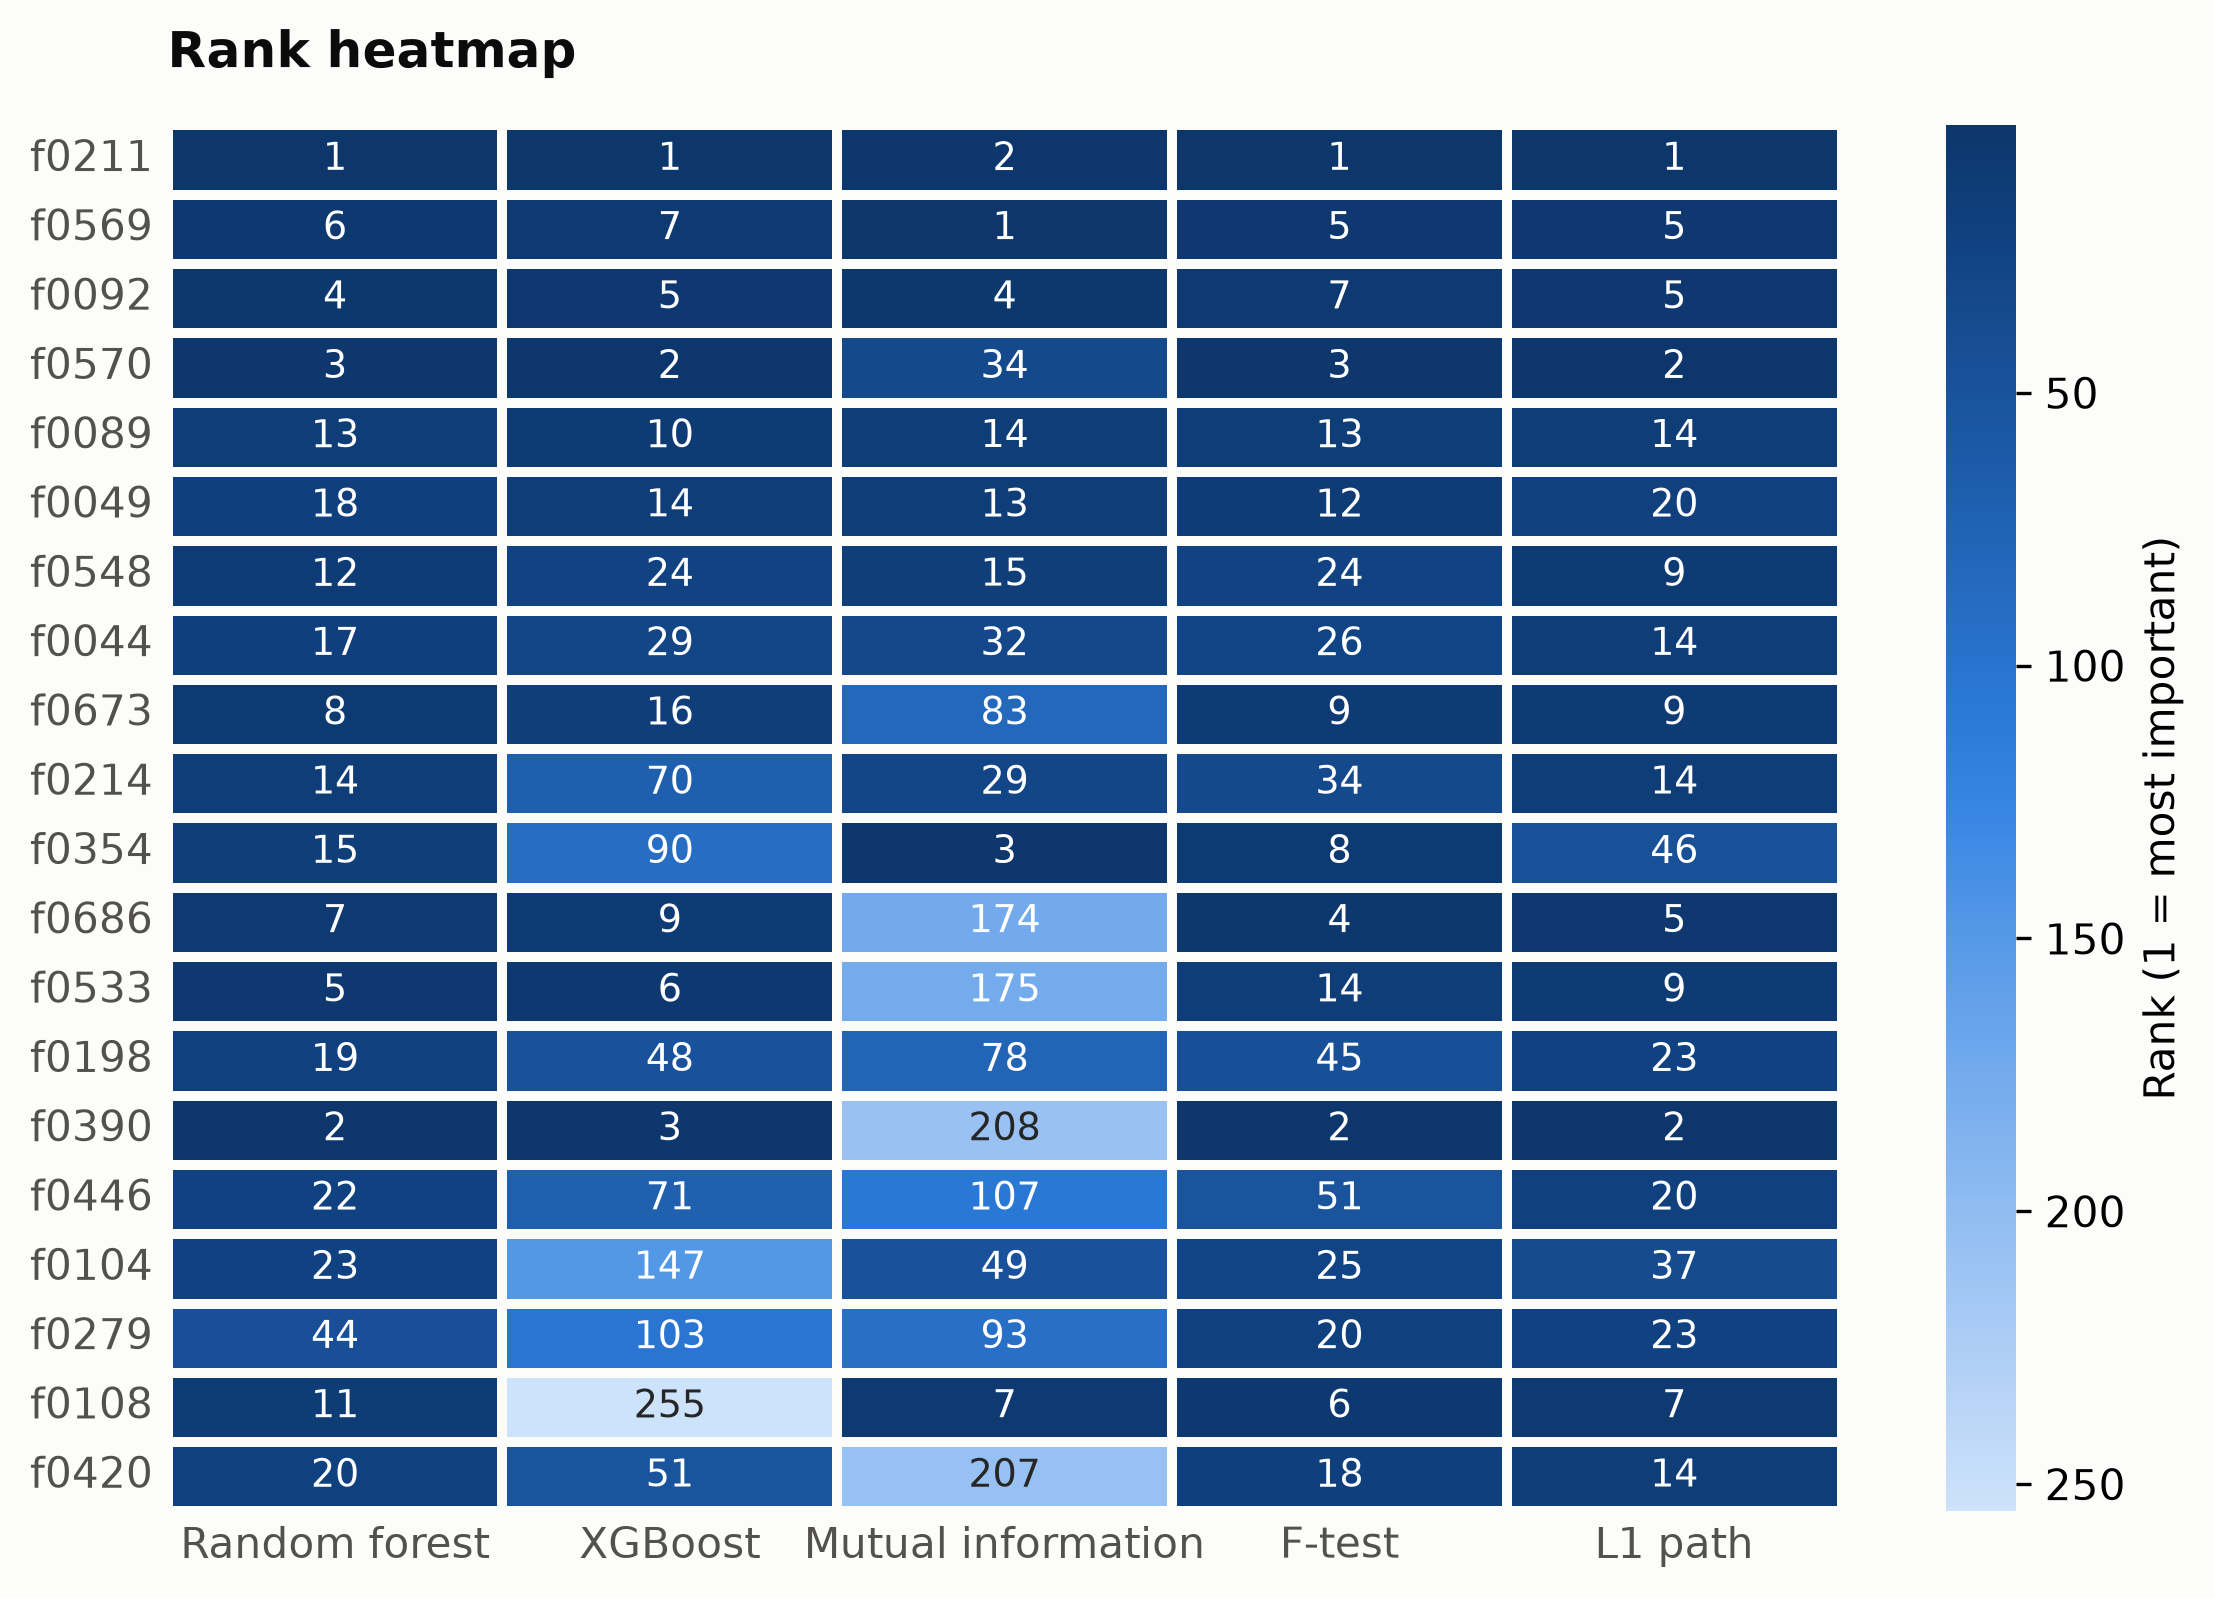
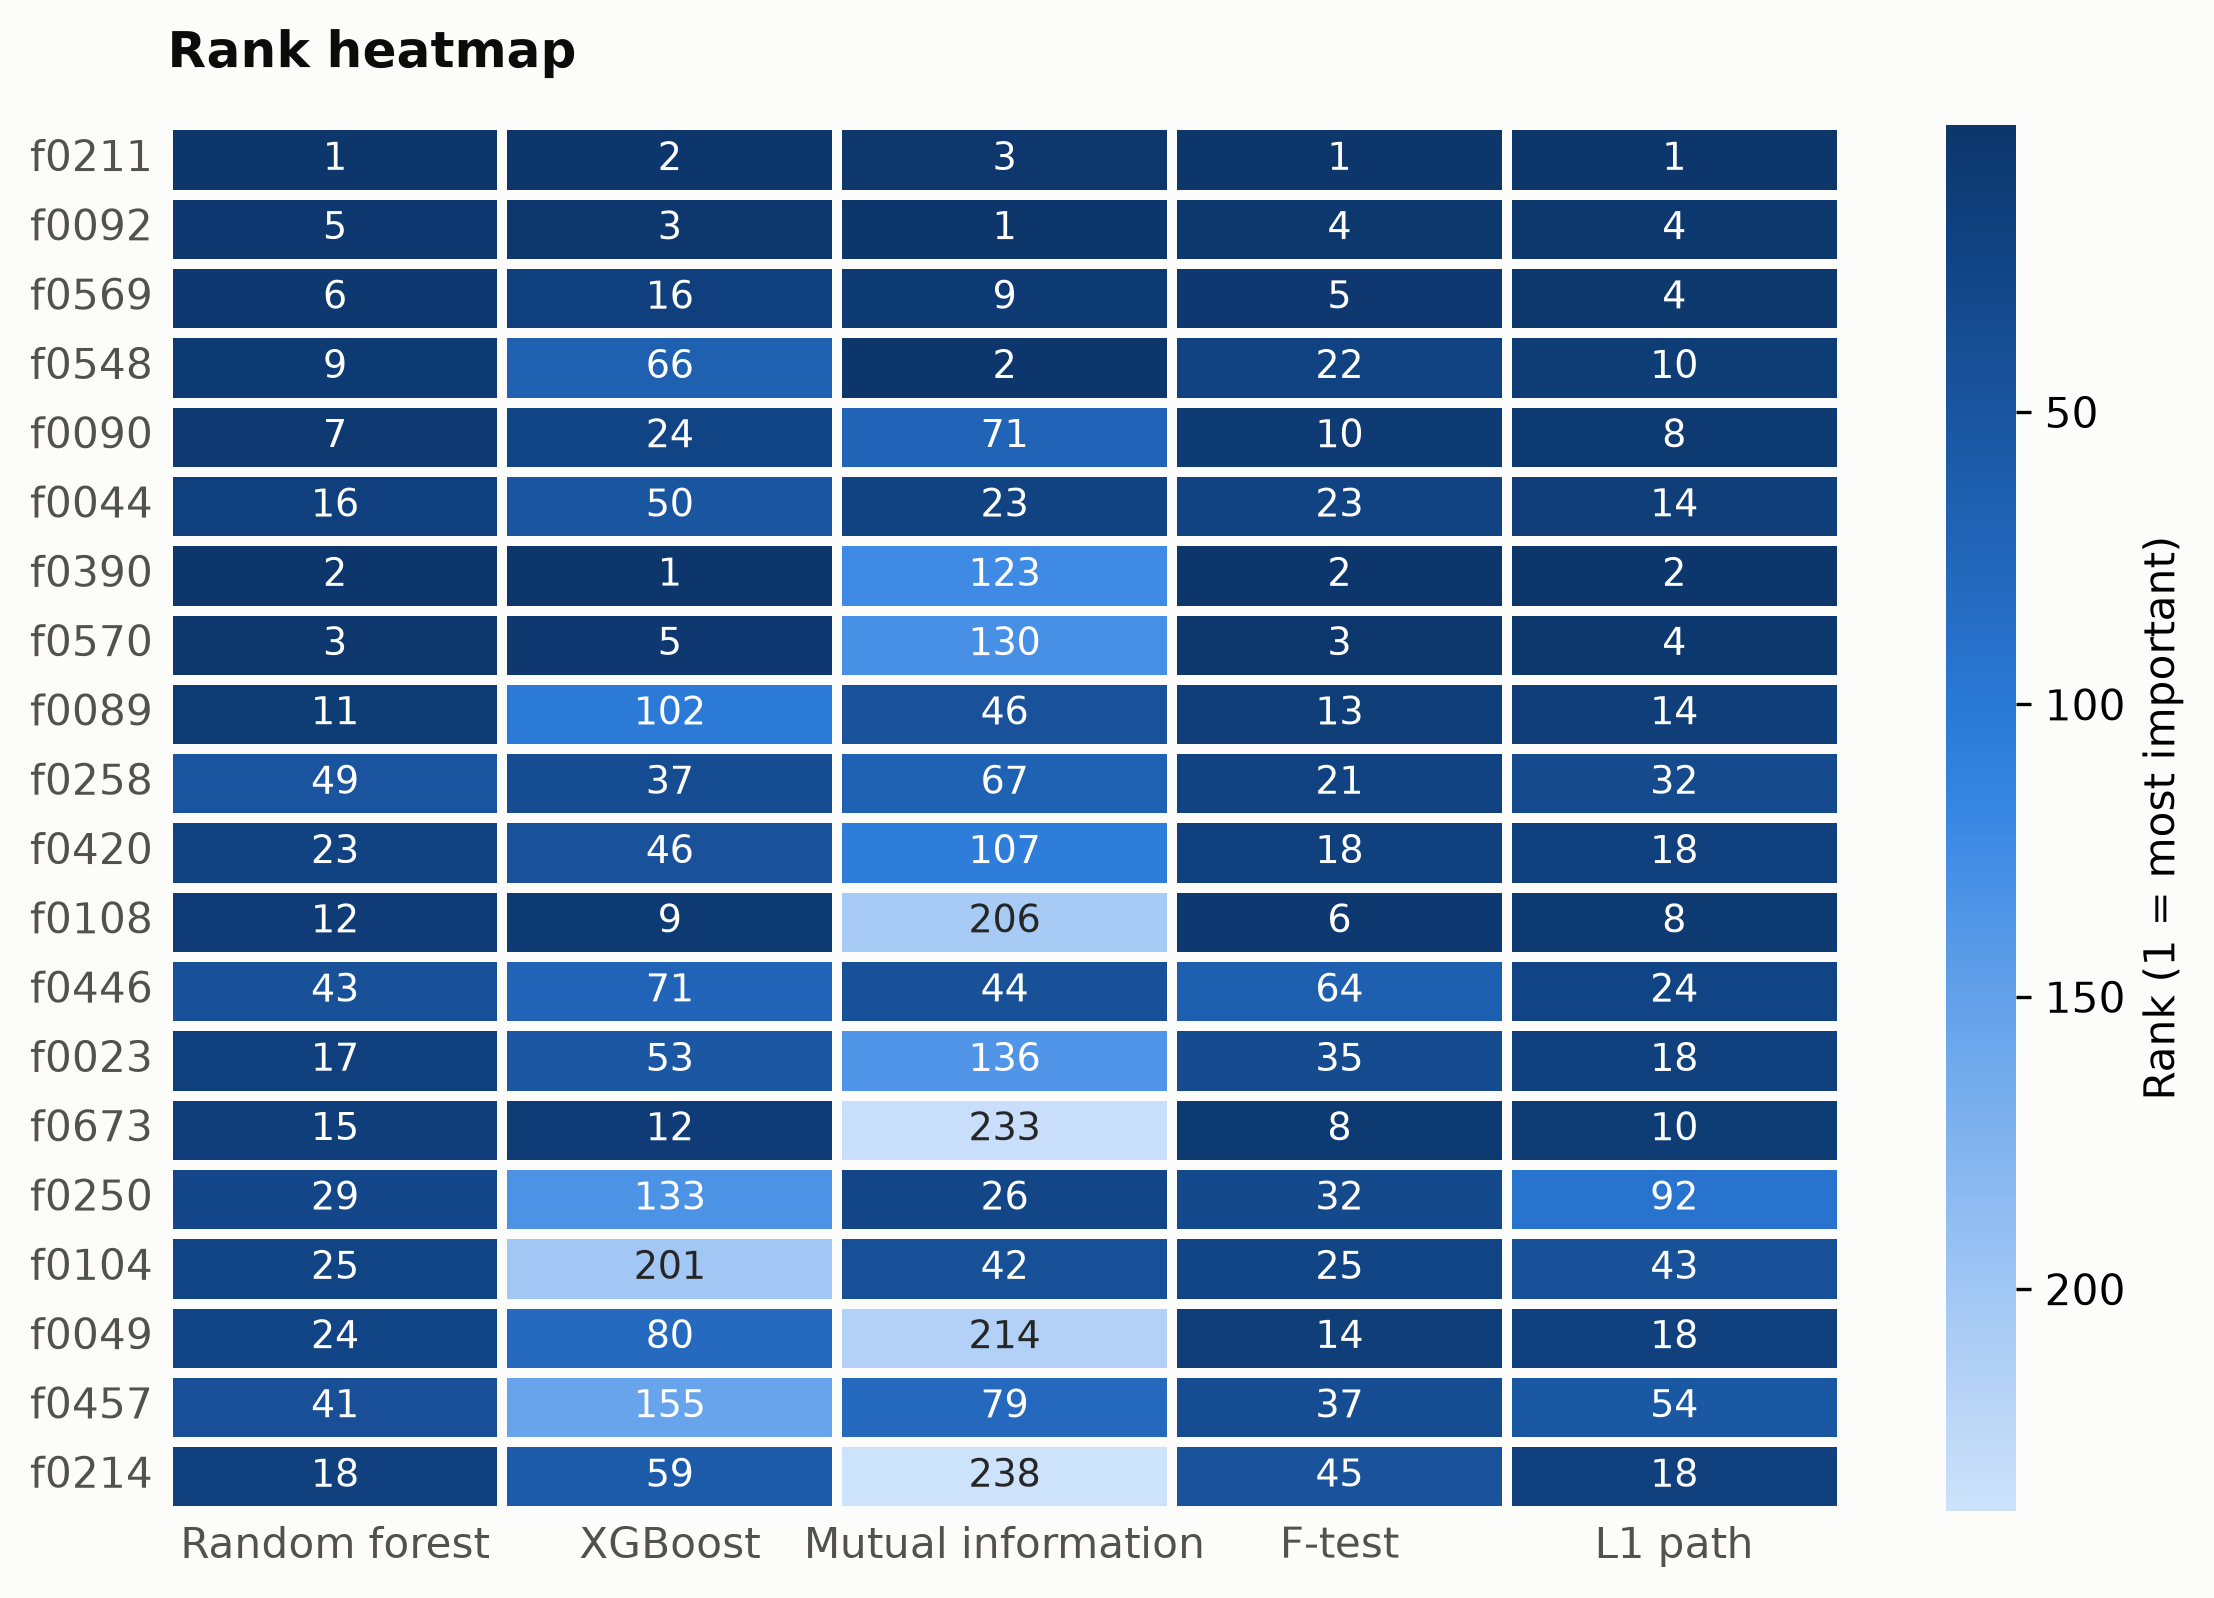
docs: ModernBERT sentiment example artifacts from the GH200 run
Train-split ranking over 3,200 sentences; held-out probe results: top 20
of 1,536 dimensions keep 69.3% accuracy vs 71.6% with all dimensions, and
beat PCA (67.0%), UMAP (57.9%), and t-SNE (55.8%) at the same budget; the
single top dimension beats every 1-dim reduction.

diff --git a/docs/examples/modernbert_sentiment.md b/docs/examples/modernbert_sentiment.md
@@ -7,7 +7,9 @@ features are the 1,536 pooled hidden-state dimensions of
 with mask-aware variance pooling, 768 dimensions each), and the target is
 the sentiment label. Passing the bare numpy matrix assigns each dimension a
 stable ID: f0000-f0767 are mean-pooled, f0768-f1535
-are variance-pooled.
+are variance-pooled. Everything below ranks on a stratified
+3,200-sentence training split; the remaining 800
+sentences stay held out for the accuracy experiment.
 
 ```python
 import numpy as np
@@ -15,36 +17,61 @@ from featureranker import feature_ranking, voting
 
 E = np.load("embeddings.npy")   # (4000, 1536) pooled ModernBERT features
 y = np.load("labels.npy")       # (4000,) sentiment labels
-result = feature_ranking(E, y, task="classification")
+result = feature_ranking(E[train_idx], y[train_idx], task="classification")
 vote_table = voting(result)
 ```
 
 ## A few dimensions carry the signal
 
 The top 20 of 1,536 dimensions hold
-41% of the total vote score, and the L1 path never activated
-52 dimensions at all (92 parallel
+40% of the total vote score, and the L1 path never activated
+160 dimensions at all (93 parallel
 liblinear fits located every entry point). Of the top 20,
 19 are mean-pooled and 1 are variance-pooled dimensions.
 
 | feature | score |
 |---|---|
-| f0211 | 4.5 |
-| f0390 | 1.738 |
-| f0569 | 1.71 |
-| f0570 | 1.596 |
-| f0092 | 1.043 |
-| f0686 | 0.7097 |
-| f0354 | 0.5579 |
-| f0533 | 0.5549 |
-| f0108 | 0.5472 |
-| f0673 | 0.4218 |
+| f0211 | 3.833 |
+| f0390 | 2.508 |
+| f0092 | 2.006 |
+| f0570 | 1.097 |
+| f0548 | 0.767 |
+| f0569 | 0.7625 |
+| f0533 | 0.7172 |
+| f0686 | 0.5139 |
+| f0108 | 0.491 |
+| f0090 | 0.4236 |
 
 ![Aggregated dimension importance](../images/modernbert_sentiment_vote.png)
 
 ![Dimension ranks by method](../images/modernbert_sentiment_rankings.png)
 
 ![Rank heatmap](../images/modernbert_sentiment_heatmap.png)
+
+## Does the ranking hold up, and how does it compare to reduction?
+
+A standardized logistic probe trained on the training split and scored on
+the 800 held-out sentences, using either the top-ranked raw
+dimensions or a matched-dimensionality reduction fit on the training split:
+
+| representation | dims | test accuracy |
+|---|---|---|
+| all pooled dimensions | 1536 | 0.7163 |
+| featureranker top 20 | 20 | 0.6925 |
+| PCA 20 | 20 | 0.67 |
+| UMAP 20 | 20 | 0.5787 |
+| t-SNE 20 (transductive) | 20 | 0.5575 |
+| featureranker top 1 | 1 | 0.5975 |
+| PCA 1 | 1 | 0.5487 |
+| UMAP 1 | 1 | 0.5487 |
+| t-SNE 1 (transductive) | 1 | 0.5425 |
+
+Selected raw dimensions stay interpretable (each is one fixed model
+dimension, usable at inference with no fitted transform), which is the
+practical edge over reductions at the same budget. t-SNE has no
+out-of-sample transform, so it is fit transductively on all sentences
+(label-blind) and split afterward; every other row sees only the training
+split before scoring.
 
 ## Reproduce
 
